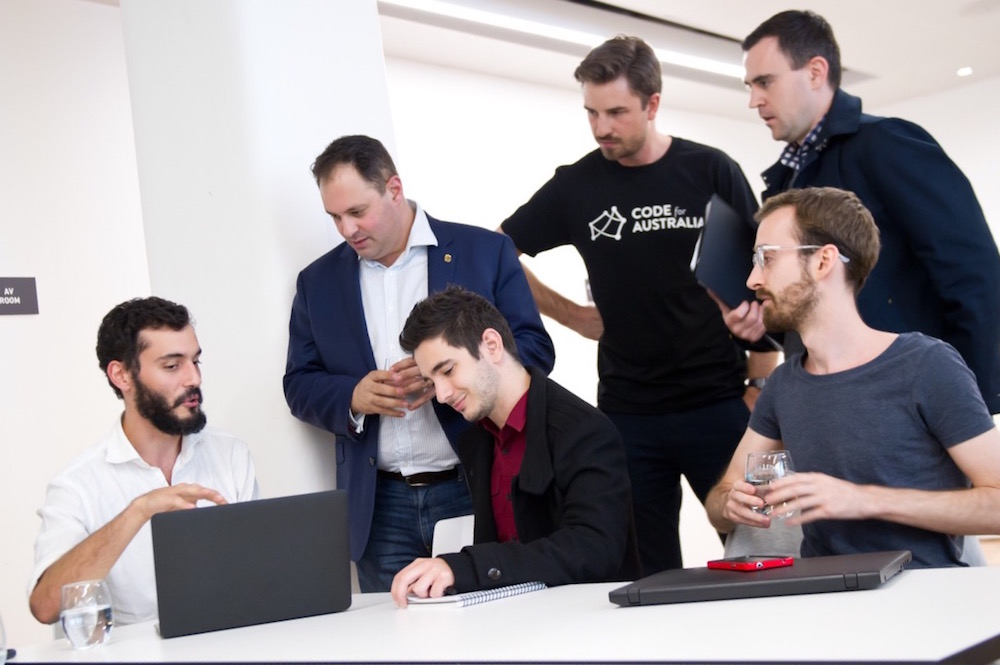
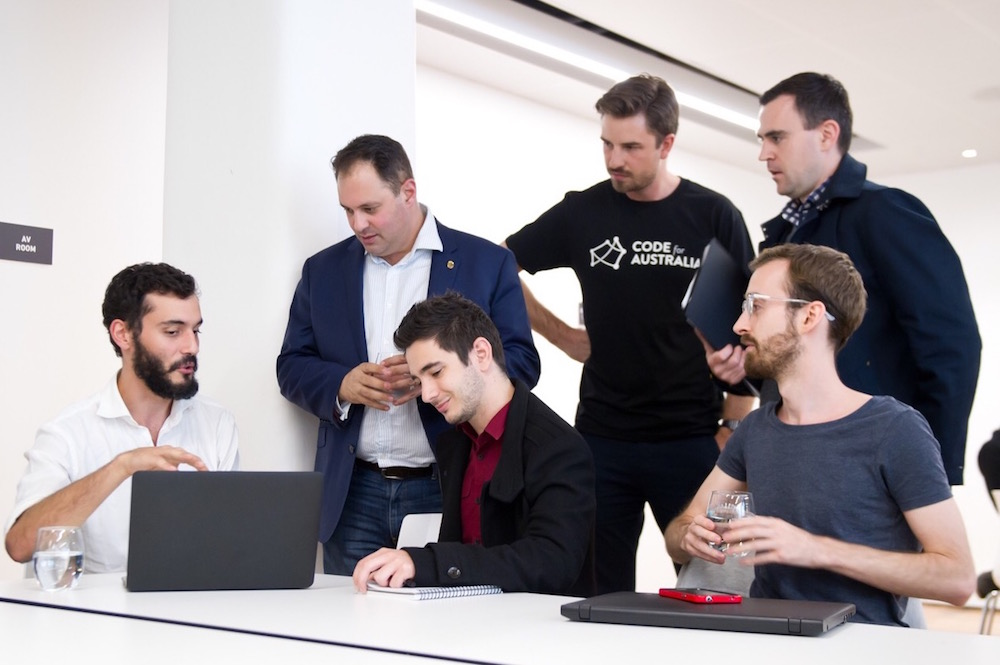
day 16, misssing image

diff --git a/_drafts/Day16.md b/_drafts/Day16.md
@@ -1,0 +1,30 @@
+---
+layout: post
+title: Day 16 / 56
+tags: learning, general assembly, ruby, backend, oop
+---
+@Ga_Melbourne by *Johan Codinha*.
+
+##:gem: Programing with ~~a spoon~~ objects.
+
+So we have been using object since day one with javascript, most of the time without realizing it. Now it's time to create our own or get a headache trying. After an emotional programming story from our instructor DT, we talked about his early experience with object oriented programming.
+My first introduction to OOP was few years ago when I started learning C++ after years of using C to program microcontrollers in high school. The first time,  I got so confused about the principles behind object, then I tried again to understand the concept with another language, PhP, didn't work. Few failure later I finally get it, and I understand the confusion present in the class, I have been there. All you need to do is to  check out other learning materials, keep reading courses and experiment, until you finally get it.
+I would recommend watching this [video](https://www.youtube.com/watch?v=KyTUN6_Z9TM), it's a concrete example of what object are good at.
+
+## :dart: Every day goals :  
+
+**Coding**, Spend most of the day building an animal shelter, *console* app that can manage the relationship between clients and animals.  
+**Talking about it**, Spend the evening at an art and design conference, meet some awesome peoples, and when I told them that I was a developer, they started pitching app idea, good fun. Also here's my daily [Walk and Talk](https://soundcloud.com/johan-c-819300950/walk-and-talk-day-16-58).
+
+## :book: TIL :  
+- **OOP design** :
+    - classes creation, with class Class_name, uppercase first letter to follow convention.
+    - attr_accesor to acces varaiable inside obj without writing the acces funtion manually.
+    - method creation, when creating a method you can set it like that `def method=(para)` and call it `obj.method = para` instead of `obj.method(para)`.
+    - initialize / constructor method, `def initialize` will run when object is created for the first time.
+    - instance variable, @varaiable is an instance varaiable, only accesible from the object
+- **Crappy DB** : 
+    - Whant to make a database in a single text file ? What could go wrong ? to open a text file in Ruby `file = File.open('crappy_database.txt', 'a+') do |file| ...some code ... end` a+ will give read/write acces and the `do |file| ... end` part will close the file for us, otherwise `file.close` when you are done with the file. 
+  
+**:shell: Quotes of the day :**  
+>“The problem with object-oriented languages is they’ve got all this implicit environment that they carry around with them. You wanted a banana but what you got was a gorilla holding the banana and the entire jungle.” – Joe Armstrong

diff --git a/_posts/2016-04-07-Day16@GeneralAssembly.md b/_posts/2016-04-07-Day16@GeneralAssembly.md
@@ -1,0 +1,30 @@
+---
+layout: post
+title: Day 16 / 56
+tags: learning, general assembly, ruby, backend, oop
+---
+@Ga_Melbourne by *Johan Codinha*.
+
+##:gem: Programing with ~~a spoon~~ objects.
+
+So we have been using object since day one with javascript, most of the time without realizing it. Now it's time to create our own or get a headache trying. After an emotional programming story from our instructor DT, we talked about his early experience with object oriented programming.
+My first introduction to OOP was few years ago when I started learning C++ after years of using C to program microcontrollers in high school. The first time,  I got so confused about the principles behind object, then I tried again to understand the concept with another language, PhP, didn't work. Few failure later I finally get it, and I understand the confusion present in the class, I have been there. All you need to do is to  check out other learning materials, keep reading courses and experiment, until you finally get it.
+I would recommend watching this [video](https://www.youtube.com/watch?v=KyTUN6_Z9TM), it's a concrete example of what object are good at.
+
+## :dart: Every day goals :  
+
+**Coding**, Spend most of the day building an animal shelter, *console* app that can manage the relationship between clients and animals.  
+**Talking about it**, Spend the evening at an art and design conference, meet some awesome peoples, and when I told them that I was a developer, they started pitching app idea, good fun. Also here's my daily [Walk and Talk](https://soundcloud.com/johan-c-819300950/walk-and-talk-day-16-58).
+
+## :book: TIL :  
+- **OOP design** :
+    - classes creation, with class Class_name, uppercase first letter to follow convention.
+    - attr_accesor to acces varaiable inside obj without writing the acces funtion manually.
+    - method creation, when creating a method you can set it like that `def method=(para)` and call it `obj.method = para` instead of `obj.method(para)`.
+    - initialize / constructor method, `def initialize` will run when object is created for the first time.
+    - instance variable, @varaiable is an instance varaiable, only accesible from the object
+- **Crappy DB** : 
+    - Whant to make a database in a single text file ? What could go wrong ? to open a text file in Ruby `file = File.open('crappy_database.txt', 'a+') do |file| ...some code ... end` a+ will give read/write acces and the `do |file| ... end` part will close the file for us, otherwise `file.close` when you are done with the file. 
+  
+**:shell: Quotes of the day :**  
+>“The problem with object-oriented languages is they’ve got all this implicit environment that they carry around with them. You wanted a banana but what you got was a gorilla holding the banana and the entire jungle.” – Joe Armstrong

diff --git a/_drafts/notesDay18.md b/_drafts/notesDay18.md
@@ -1,0 +1,47 @@
+Monday
+-database intro
+mixing up data and code is hard, confusing. So we should separate them.
+crappy db structure ? their is no, just text in a text file
+2 kind of database, noSQL and SQL (relational)
+first let's install postgresql
+
+get something you do a reading with , select
+update something you do an modification with, update
+insert a new records with Insert
+delete with delete
+
+-relational database
+-tables, rows, column
+ (the db, records, attributes)
+-sql
+
+Lets create a web app to share picture of dishes: goodfoodhunting
+let's create a new sinatra app with sinatra new goodfoodhunting -va
+
+-v views to generate views folder with index.erb and layout .erb
+-a asset to generate public, javascript and stylsheet folder
+
+to help us talk to the database we are using the gem 'pg' (gem install pg)
+db = PG.connect(dbname: 'goodfoodhunting') to create a connection
+row = db.exec('select * from dishes;')
+now row is a hash, so i just row[0] to retrieve data.
+
+how to convert to utf-8
+string = 'é'
+encoded_string = string.encode('UTF-8')
+encoded_string.bytes => [195, 169]
+string = ''
+encoded_string.bytes.each {|byte| 
+    string << "%#{byte.to_s(16)}"
+}
+
+def to_utf (str)
+    encoded_str = ''
+    str.split('').each {|char| 
+        encoded_char = char.encode('UTF-8')
+            encoded_char.bytes.each {|byte|
+                encoded_str << "%#{byte.to_s(16)}"
+            }
+    }
+    return encoded_str
+end
